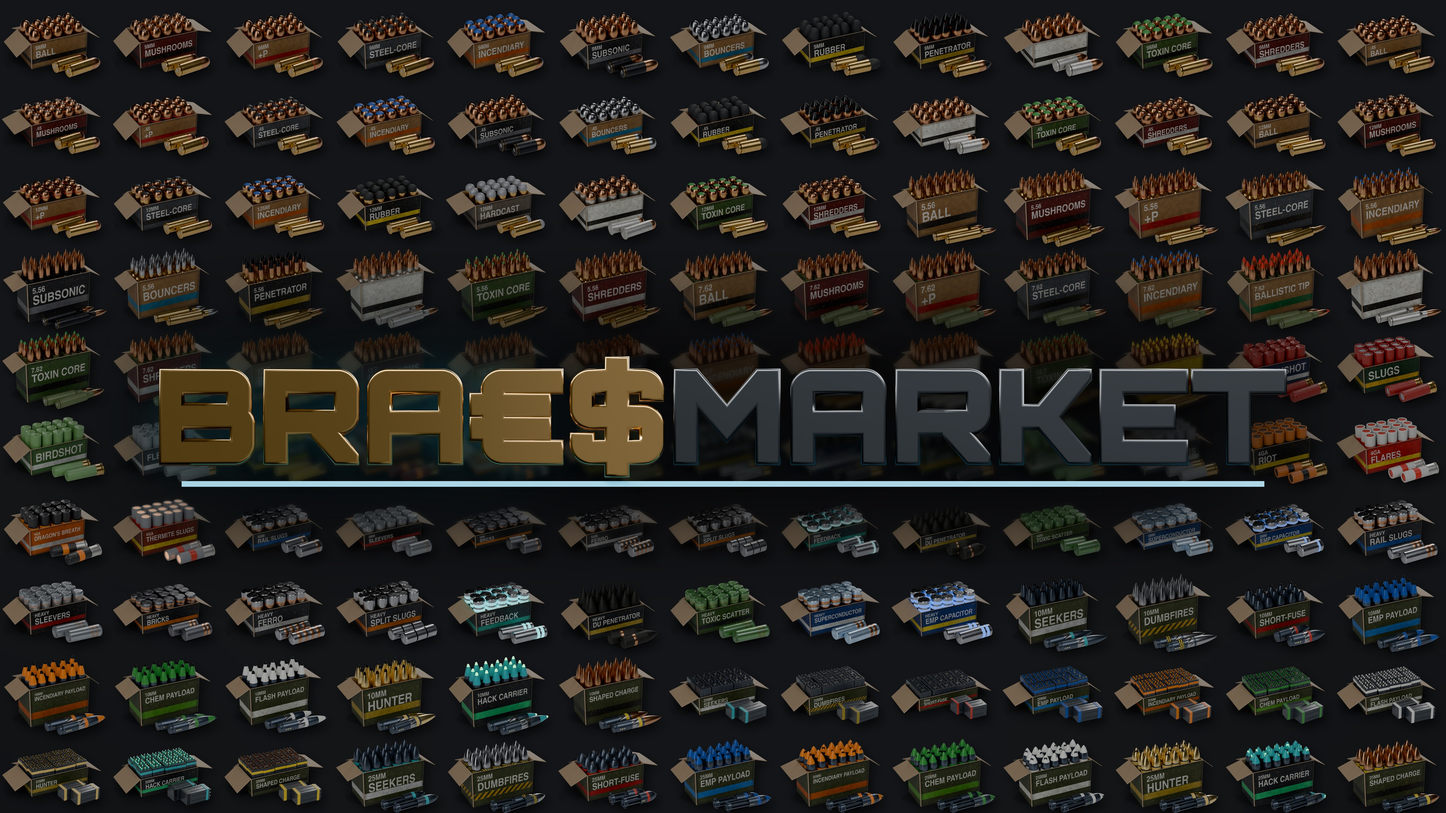
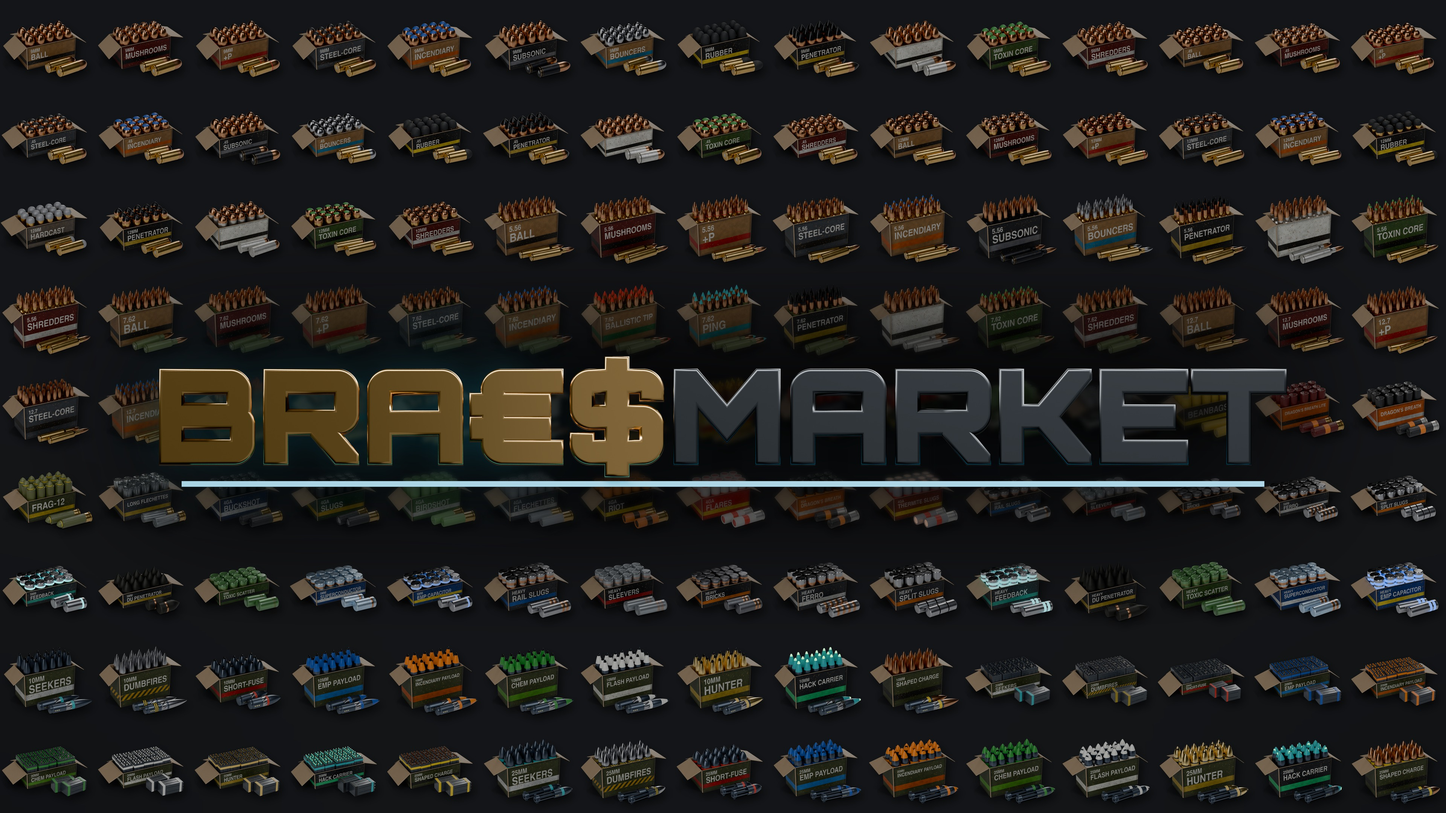
docs: 135 rounds, Ping and the new Penetrators
Claude-Session: https://claude.ai/code/session_01JwJvEAYGPc2WFWAem67MMf

diff --git a/tools/render/banner.py b/tools/render/banner.py
@@ -2,7 +2,7 @@
 
   python3 tools/render/banner.py [--title TITLE.png]
 
-  art/banner/background-8k.png, background-4k.png: every round's box, 13 x 10 on a dark ground,
+  art/banner/background-8k.png, background-4k.png: every round's box, 15 x 9 on a dark ground,
     in caliber order (Power, Tech, Smart; Common to Epic within each).
   The 8K files aren't committed (.gitignore); rerun to get them.
   art/banner/main-8k.png, main-4k.png, main-4k.jpg (with --title): the background, darkened behind the title,
@@ -19,7 +19,7 @@ ROOT = pathlib.Path(__file__).resolve().parents[2]
 ART = ROOT / "art" / "icons"
 OUT = ROOT / "art" / "banner"
 W, H = 7680, 4320
-COLS, ROWS = 13, 10
+COLS, ROWS = 15, 9
 # Power, Tech, Smart, by the caliber prefix of the icon file names.
 CALIBERS = ["9mm", "45", "12mm", "556", "762", "127", "12ga", "4ga", "5mm", "heavy", "10mm", "20mm", "25mm"]
 

diff --git a/docs/NEXUS.md b/docs/NEXUS.md
@@ -10,18 +10,18 @@ colors (Common grey, Uncommon green, Rare blue, Epic purple).
 
 ```
 [center][size=6][b][color=#d4a04c]BRA€$[/color][color=#9aa3ad]MARKET[/color][/b][/size]
-[size=4]An ammo overhaul: 13 calibers, 130 rounds, and the shops, loot and crafting that go with them[/size][/center]
+[size=4]An ammo overhaul: 13 calibers, 135 rounds, and the shops, loot and crafting that go with them[/size][/center]
 
 [line]
 
-The base game has four kinds of ammo. [b]Brass Market[/b] has 13 calibers and 130 different rounds, from plain ball up to Epic match grade. Gun shops stock the rounds, NPCs carry and fire them, you can craft them from recipes, and you can break boxes down for components.
+The base game has four kinds of ammo. [b]Brass Market[/b] has 13 calibers and 135 different rounds, from plain ball up to Epic match grade. Gun shops stock the rounds, NPCs carry and fire them, you can craft them from recipes, and you can break boxes down for components.
 
 Each gun is assigned the caliber that fits it. Each caliber has Common, Uncommon, Rare and Epic rounds. You pick which round the gun loads from its mod screen.
 
 [size=5][b][color=#2ad4ff]What the mod adds[/color][/b][/size]
 [list]
 [*]13 calibers: 9mm, .45, 12mm magnum, 5.56, 7.62, 12.7, 12-gauge, 4-gauge, light and heavy rail slugs, and 10mm, 20mm and 25mm smart rounds.
-[*]130 rounds: hollow points, steel core, incendiary, subsonic, rubber, flechettes, dragon's breath, thermite slugs, depleted uranium, EMP payloads and more.
+[*]135 rounds: hollow points, steel core, incendiary, subsonic, rubber, flechettes, dragon's breath, thermite slugs, depleted uranium, EMP payloads and more.
 [*]An [b]Ammo[/b] slot on every gun's mod screen. Fit any round you carry for that caliber and the gun loads it until you change it.
 [*]NPCs carry rounds from the mod, and tougher NPCs carry better ones. Their rounds work on you the same way yours work on them, so a gang boss loaded with steel core gets the same armor pen against you that you'd get against him. NPCs can run out of ammo. When they do, they switch to another gun or fight with their fists. Whatever they still have is what you loot.
 [*]Gun shops stock every caliber up to Rare. Recipes drop from loot and are also sold in gun shops. You craft rounds by the box and break boxes down for components.
@@ -108,7 +108,8 @@ What each load does. Percentages are changes from the plain round.
 [*][color=#3fa0ff][b]Rubber[/b][/color] (Rare): non-lethal, targets go down unconscious. Big flinch.
 [*][color=#3fa0ff][b]Hardcast[/b][/color] (Rare, 12mm): 25% chance to stagger, a little armor pen, more kick.
 [*][color=#3fa0ff][b]Ballistic Tip[/b][/color] (Rare, 7.62 and 12.7): +40% range, +5% damage.
-[*][color=#b04fff][b]Penetrator[/b][/color] (Epic): ignores 60% of armor.
+[*][color=#3fa0ff][b]Ping[/b][/color] (Rare, 7.62 and 12.7): targets hit show through walls for 5 seconds. -10% damage.
+[*][color=#b04fff][b]Penetrator[/b][/color] (Epic): ignores 60% of armor. In 12mm, 7.62 and 12.7 it also goes through thin cover at half damage.
 [*][color=#b04fff][b]Match[/b][/color] (Epic): tight damage roll that sits high, 30% less spread and sway.
 [*][color=#b04fff][b]Toxin Core[/b][/color] (Epic): 25% chance to poison, 30% of the damage is chemical.
 [*][color=#b04fff][b]Shredders[/b][/color] (Epic): 30% chance to cause bleeding, twice the dismemberment.
@@ -164,10 +165,10 @@ What each load does. Percentages are changes from the plain round.
 [list]
 [*][b]9mm[/b]: Ball, Mushrooms, +P, Steel-Core, Incendiary, Subsonic, Bouncers, Rubber, Penetrator, Match, Toxin Core, Shredders
 [*][b].45[/b]: Ball, Mushrooms, +P, Steel-Core, Incendiary, Subsonic, Bouncers, Rubber, Penetrator, Match, Toxin Core, Shredders
-[*][b]12mm[/b]: Ball, Mushrooms, +P, Steel-Core, Incendiary, Rubber, Hardcast, Match, Toxin Core, Shredders
+[*][b]12mm[/b]: Ball, Mushrooms, +P, Steel-Core, Incendiary, Rubber, Hardcast, Penetrator, Match, Toxin Core, Shredders
 [*][b]5.56[/b]: Ball, Mushrooms, +P, Steel-Core, Incendiary, Subsonic, Bouncers, Penetrator, Match, Toxin Core, Shredders
-[*][b]7.62[/b]: Ball, Mushrooms, +P, Steel-Core, Incendiary, Ballistic Tip, Match, Toxin Core, Shredders
-[*][b]12.7[/b]: Ball, Mushrooms, +P, Steel-Core, Incendiary, Ballistic Tip, Match, Toxin Core, HEI
+[*][b]7.62[/b]: Ball, Mushrooms, +P, Steel-Core, Incendiary, Ballistic Tip, Ping, Penetrator, Match, Toxin Core, Shredders
+[*][b]12.7[/b]: Ball, Mushrooms, +P, Steel-Core, Incendiary, Ballistic Tip, Ping, Penetrator, Match, Toxin Core, HEI
 [*][b]12-gauge[/b]: Buckshot, Slugs, Birdshot, Flechettes, Beanbags, Dragon's Breath Lite, Dragon's Breath, Frag-12, Long Flechettes
 [*][b]4-gauge[/b]: Buckshot, Slugs, Birdshot, Flechettes, Riot, Flares, Dragon's Breath, Thermite Slugs
 [*][b]Light rail[/b]: Rail Slugs, Sleevers, Bricks, Ferro, Split Slugs, Feedback, DU Penetrator, Toxic Scatter, Superconductor, EMP Capacitor

diff --git a/docs/CATALOG.md b/docs/CATALOG.md
@@ -325,7 +325,7 @@ Calibers differ in ammo weight, price and how often they turn up, not in how the
 
 ### Built (Rare and Epic, 2026-10-29)
 
-91 Rare and Epic rounds, all made by `tools/rounds/rounds.py` (records, list entries, text, icon
+96 Rare and Epic rounds, all made by `tools/rounds/rounds.py` (records, list entries, text, icon
 data; edit there and rerun it). Each is its caliber's plain Uncommon with the changes below, at
 x4 (Rare) or x8 (Epic) the Common price. The effect line is the one the item shows. Chances are per
 shot (each pellet of a shotgun rolls its share).
@@ -336,11 +336,13 @@ shot (each pellet of a shotgun rolls its share).
 - **Bouncers** (Rare; 9mm, .45, 5.56): 30% chance to ricochet once. -15% damage.
 - **Rubber** (Rare; 9mm, .45, 12mm): Non-lethal: targets go down unconscious instead of dying. Much stronger flinch. -40% damage.
 - **Penetrator** (Epic; 9mm, .45, 5.56): Ignores 60% of armor.
+- **Penetrator** (Epic; 12mm, 7.62, 12.7): Ignores 60% of armor. Goes through thin cover at half damage. (`TechPierceEnabled` +1, `TechPierceChargeLevel` x0, `TechPierceDamageFactor` +0.5: every shot pierces as a charged Tech shot.)
 - **Match** (Epic; 9mm, .45, 12mm, 5.56, 7.62, 12.7): Damage varies -2% to +6% instead of -10% to +1%. 30% less spread and sway.
 - **Toxin Core** (Epic; 9mm, .45, 12mm, 5.56, 7.62, 12.7): 25% chance to poison. 30% of the damage is chemical damage.
 - **Shredders** (Epic; 9mm, .45, 12mm, 5.56, 7.62): 30% chance to cause bleeding. Twice the dismemberment chance.
 - **Hardcast** (Rare; 12mm): 25% chance to stagger. Ignores 10% of armor. +20% recoil.
 - **Ballistic Tip** (Rare; 7.62, 12.7): +40% range. +5% damage. Armor is 10% more effective against it.
+- **Ping** (Rare; 7.62, 12.7): Targets hit show through walls for 5 seconds. -10% damage. (Every hit applies `AmmoOverhaul.PingTag`: Hawk's tag, `BaseStatusEffect.KyubiMyersTag`, for 5 s instead of 15.)
 - **HEI** (Epic; 12.7): +50% damage against drones, mechs and vehicles. 20% chance to set the target on fire.
 - **Flechettes** (Rare; 12ga, 4ga): Tighter spread. Double range. -15% damage.
 - **Beanbags** (Rare; 12ga): Fires one projectile with the whole shot's damage. Knocks targets down. Non-lethal: targets go down unconscious instead of dying. -50% damage.
@@ -381,8 +383,8 @@ shot (each pellet of a shotgun rolls its share).
   that each set a weak, short burn, in a wide spread. Being tested on a 9mm round (8 pellets, a
   light burn). A true cone of fire from the muzzle would need its own area attack at the gun
   (not looked into yet).
-- **Overpressure:** a Power load that punches through cover like a charged Tech shot (whether
-  `TechPierceEnabled` works on a Power gun is untested).
+- **Overpressure:** a Power load that punches through cover like a charged Tech shot. Built as
+  the 12mm, 7.62 and 12.7 Penetrator (`TechPierceEnabled` works on a Power gun: probed on an Ajax).
 - **Capacitor slug (Tech):** stores rail energy and discharges on impact, only on charged shots
   (through the package's `chargeFire`).
 - **Rail feedback slug (Tech):** corrects itself slightly against the rails (bullet magnetism).

diff --git a/docs/DESIGN.md b/docs/DESIGN.md
@@ -282,7 +282,9 @@ applied in the damage pipeline to V's shots and NPCs' alike:
   1 - (1 - chance)^(1/n) (`AOData.PelletChance`), so a Dragon's Breath shot burns 60% of the time,
   not on nearly every shot. On V, burning, poison, bleeding and EMP become vanilla's Player versions
   (`AOData.PlayerEffect`: `PlayerBurning`, `PlayerPoisoned`, `PlayerBleeding`, `PlayerElectrocuted`),
-  as vanilla does for its own weapons. The 4ga Slug's knockdown is one of these.
+  as vanilla does for its own weapons. The 4ga Slug's knockdown is one of these. Ping's
+  `AmmoOverhaul.PingTag` (Hawk's tag for 5 s) goes on V unchanged when an NPC's Ping hits V: it
+  applies and wears off with no error (`calibers/ping.sh`).
 - `aoShareType` / `aoShare`: that share of the hit's Physical damage moves to Thermal, Electric
   or Chemical (`AmmoFeedSystem.ApplyHitDamage`, after the roll).
 - `aoMachineBonus`: every damage type times this against a machine (`AOData.IsMachine`: a
@@ -335,7 +337,7 @@ says. Rare and Epic rounds are read the same way with the roll forced to their t
 | `HitDismembermentFactor` | Works. Measured: 9mm Shredders 0.5 -> 1. |
 | `BulletMagnetismDefaultAngle` | Works. Measured: 5mm Feedback 0 -> 2. |
 | `TechPierceChargeLevel`, `TechPierceDamageFactor` | Work. Measured: 5mm DU Pen 0.9 -> 0.45 and -0.44 -> -0.22. Damage through cover is times (1 + factor) (`DamageSystem`), so DU Pen keeps 78% instead of 56%. The charge level caps at 1, so it can't stop a full charge from piercing. |
-| `TechPierceEnabled` | Irrelevant: NPC rail guns have 0. On V's Omaha Split Slugs take it 1 -> 0 (measured). |
+| `TechPierceEnabled` | Works on Power guns. Measured: an NPC Ajax with 7.62 Penetrator reads 1 (with `TechPierceChargeLevel` 0, `TechPierceDamageFactor` 0.5; `calibers/ping.sh`). NPC rail guns have 0. On V's Omaha Split Slugs take it 1 -> 0 (measured). |
 | `FullAutoOnFullCharge` | Works. Measured: 5mm Superconductor 0 -> 1. |
 | `SmartGunHipMaxLockedTargets`, `SmartGunAdsMaxLockedTargets` | Work. Measured: 10mm Hunter 0 -> 2. |
 | `SmartGunHipTimeToLock`, `SmartGunAdsTimeToLock` | Irrelevant: 0 on NPC smart guns (the AI aims). |

diff --git a/docs/TESTING.md b/docs/TESTING.md
@@ -137,6 +137,9 @@ The automated checks are in `tools/snippets/calibers/` (`check.sh <file>` runs a
 - `slugs.sh`: every shotgun fires one projectile with Slugs, with tighter spread and twice the
   range (draws weapons: not while you play).
 - `icons.lua`: every round and selector has its own icon in the atlas.
+- `ping.sh`: V's 7.62 Ping tags the rig's ganger and the tag wears off about 5 s after the
+  last hit; a Ping ganger's hits tag V the same way, with no new log error; an NPC's 7.62
+  Penetrator gun reads `TechPierceEnabled` 1 (draws weapons and spawns NPCs: not while you play).
 - `lootdupe.lua`: a body knocked out, looted and then killed gives its ammo back once, not
   twice. `lootcap.lua`: a body leaves at most `npcLootWeight` carry points of a round (1200
   rounds of 12.7 leave 40). Both spawn a test NPC on the first run; run them again once it loads.
@@ -226,6 +229,13 @@ names are in `docs/CATALOG.md`):
 29. **Recipes in the wild.** Over a few gun shop visits some Uncommon and Rare "load sheet"
     recipes are for sale (none Epic). They're rare in loot: about 1 in 20 drops of an Uncommon or
     better round.
+30. **Penetrator through a car.** Put a car between you and an enemy. With an Ajax on 7.62
+    Penetrator and a Grad on 12.7 Penetrator, shots go through the car and hit the enemy. With a
+    5.56 Penetrator (a Copperhead) the car stops them.
+31. **Ping.** Hit an enemy with 7.62 or 12.7 Ping, then step behind a wall: the enemy shows
+    through it for about 5 seconds after the last hit, then the outline goes.
+32. **Ping on you.** Let an NPC carrying 7.62 Ping shoot you (`calibers/ping.sh` shows how to roll
+    one): nothing strange happens on your screen, and nothing stays on V after the fight.
 
 For each step, note pass or fail and what you saw.
 

diff --git a/CHANGELOG.md b/CHANGELOG.md
@@ -3,6 +3,13 @@
 Each release's section is its GitHub release notes and its Nexus Mods changelog
 (`tools/linux/release.sh` reads the section under the version's heading).
 
+## Unreleased
+
+- Five new rounds, 135 in all:
+  - Ping (Rare; 7.62, 12.7): targets hit show through walls for 5 seconds. -10% damage.
+  - Penetrator (Epic) in 12mm, 7.62 and 12.7: ignores 60% of armor and goes through thin cover
+    at half damage. NPCs firing it get the same.
+
 ## 0.1.0
 
 First release.

diff --git a/README.md b/README.md
@@ -1,7 +1,7 @@
 # Brass Market
 
 Brass Market (internally AmmoOverhaul) is a Cyberpunk 2077 (2.50) mod that replaces the game's four ammo types with 13 calibers and about
-130 rounds, from plain ball to Epic match grade, for V and NPCs alike.
+135 rounds, from plain ball to Epic match grade, for V and NPCs alike.
 
 ## What it does
 
